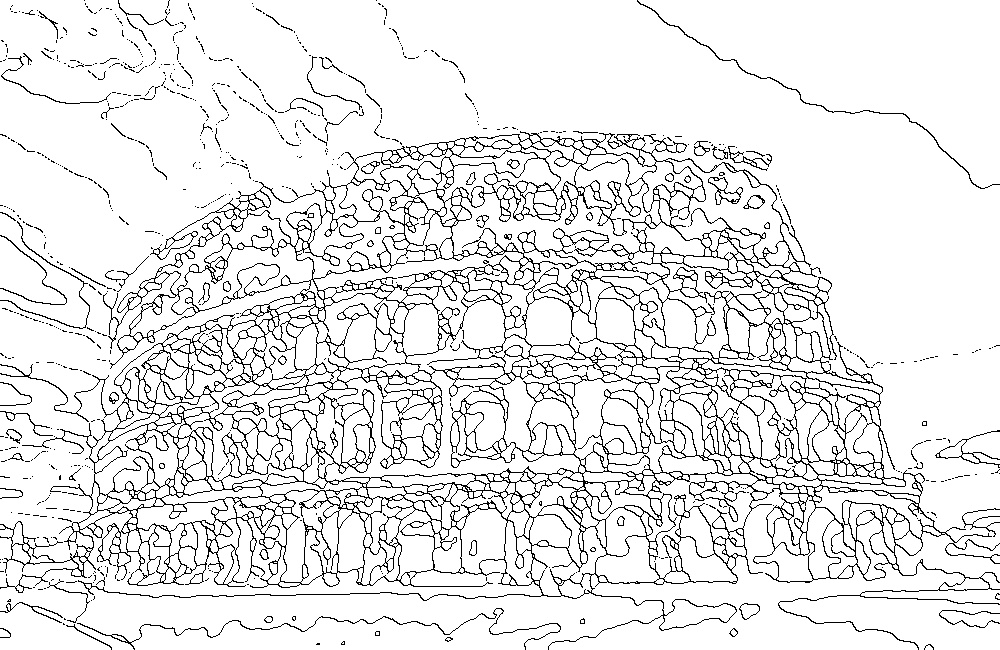
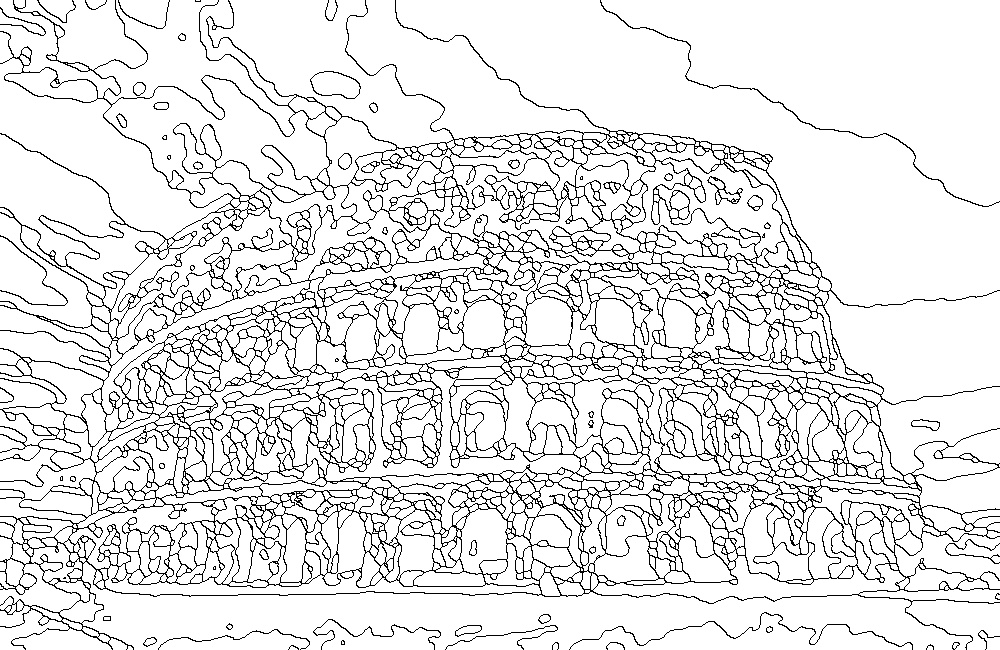
buenos contornos con smooth en escala de grises

diff --git a/Pypainingfinal.py b/Pypainingfinal.py
@@ -11,7 +11,7 @@ smoothen_ratio = 4
 ####funciones
 
 def vvalue (mat, x, y, xyrange):
-    ymax, xmax = mat.shape
+    ymax, xmax = mat.shape[:2]
     modas = mat[max(y - xyrange, 0):min(y + xyrange, ymax),
                 max(x - xyrange, 0):min(x + xyrange, xmax)].flatten()
     modas = modas.astype(int) 
@@ -20,15 +20,15 @@ def vvalue (mat, x, y, xyrange):
     return np.argmax(counts)
 
 
-def smoothen(mat, filter_size=16):
-    ymax, xmax = mat.shape
+def smoothen(mat, filter_size):
+    ymax, xmax = mat.shape[:2]
     flat_mat = np.array([
         vvalue(mat, x, y, filter_size)
         for y in range(0, ymax)
         for x in range(0, xmax)
     ])
 
-    return flat_mat.reshape(mat.shape)
+    return flat_mat.reshape(mat.shape[:2])
 
 
 def neighbors(mat, x, y):
@@ -55,7 +55,7 @@ def smoothen_channel(channel):
 
 
 def get_outlines(mat):
-    ymax, xmax, _ = mat.shape
+    ymax, xmax = mat.shape
 
     outlines = np.array([
         255 if neighbors(mat, x, y) else 0
@@ -134,6 +134,7 @@ img_recolored = img_recolored.astype(np.uint8)
 
 #Divide channels to do vvalue, smoothen y neighbors
 print('Smoothing image...')
+'''
 R= img_recolored[:, :, 0]
 G= img_recolored[:, :, 1]
 B= img_recolored[:, :, 2]
@@ -147,14 +148,19 @@ Gsmooth = smoothen_channel(Gsmooth).astype(np.uint8)
 Bsmooth = smoothen_channel(Bsmooth).astype(np.uint8)
 
 smoothed_img = cv2.merge((Rsmooth, Gsmooth, Bsmooth))
+'''
+
+smoothed_img = smoothen(img_recolored, smoothen_ratio)
+smoothed_img = smoothen(smoothed_img, smoothen_ratio)
 
 #Get contours
 print('getting contours...')
 edges = get_outlines(smoothed_img)
 
+cv2.imwrite('smoothed.jpg', smoothed_img)
 cv2.imwrite('edges.jpg', edges)
 
-cv2.imshow("smoothed", smoothed_img)
+cv2.imshow("smoothed", cv2.imread('smoothed.jpg'))
 cv2.imshow("edges", cv2.imread('edges.jpg'))
 
 plt.show()
